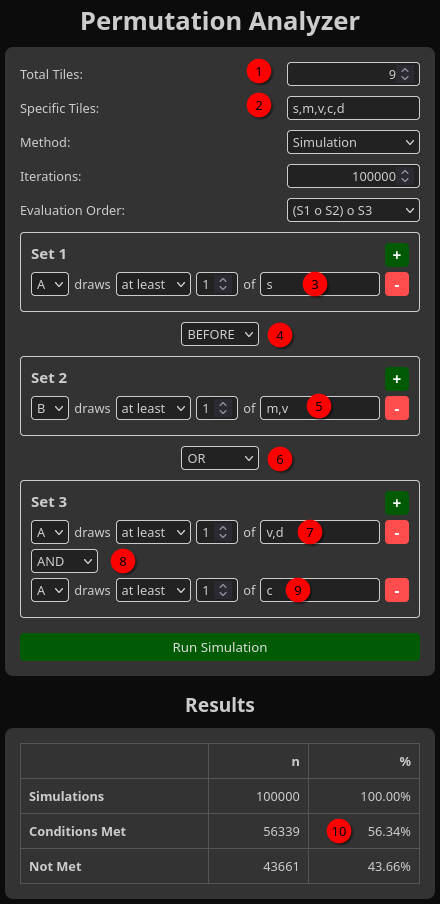
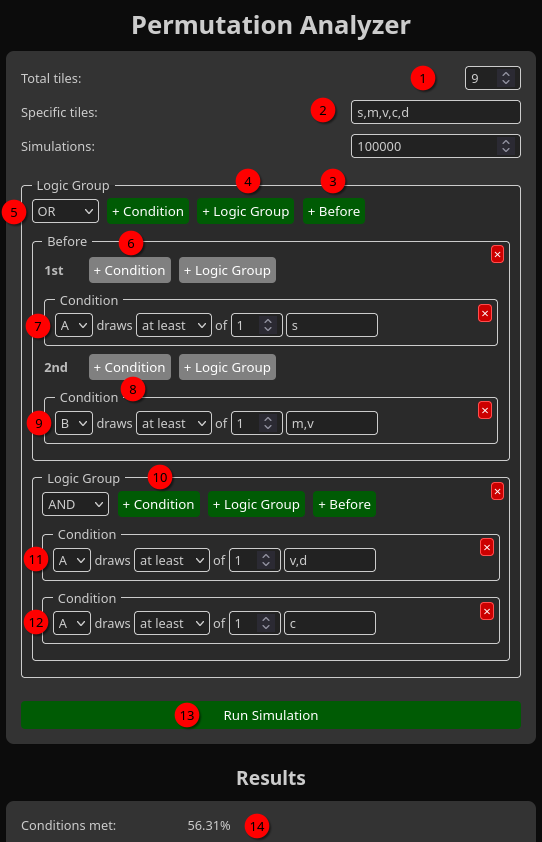
update example 5

diff --git a/README.md b/README.md
@@ -49,17 +49,22 @@ B is the 2nd player and according to BGA’s interface there are 6 tiles remaini
 4. In case of success A would have to wait 0.78 moves on average. (0 = their next move, 1 = their move after that etc. )
 
 ## Permutation Analyzer Example
+9 tiles left: straight, monastery, vanilla, curve, dagger and 4 unspecified ones. B has attacked a field and needs monastery or vanilla to connect. A needs to draw either the straight to execute a block of B’s field attack, or A needs to get the vanilla or dagger and a cow to complete a city (to outscore the field attack).
 ![screenshot-ex5](/img/ex5-permutation-analyzer.png?raw=true)
 1. 9 tiles remaining
-2. straight, monastery, vanilla, cow, dagger (and 4 irrelvant ones)
-3. A needs to draw either the straight to execute a block
-4. before
-5. B enters a field with monastery or vanilla
-6. or
-7. A needs to get the vanilla or dagger
-8. and
-9. a cow to complete a city.
-10. A will succeed in roughly 56.34% of cases. (Switching the method to ```Calculation``` would result in 56.35%.)
+2. straight, monastery, vanilla, cow, dagger
+3. Add a Before Group
+4. Add a Logic Group
+5. Change Operator to OR
+6. Add a Condition
+7. A needs a straight
+8. Add a Condition
+9. B needs (at least 1 of) monastery or vanilla
+10. Add Condition (twice), leave AND unchanged
+11. A needs to get (at least 1 of) vanilla or dagger
+12. and A needs the cow to complete a city.
+13. Run Simulation
+14. A will succeed in roughly 56.31% of cases.
 
 ## Feedback, problems, ideas etc.
 Please start a [discussion](https://github.com/yzemaze/carcassonne-probabilities/discussions) or contact me on BGA or Discord.
